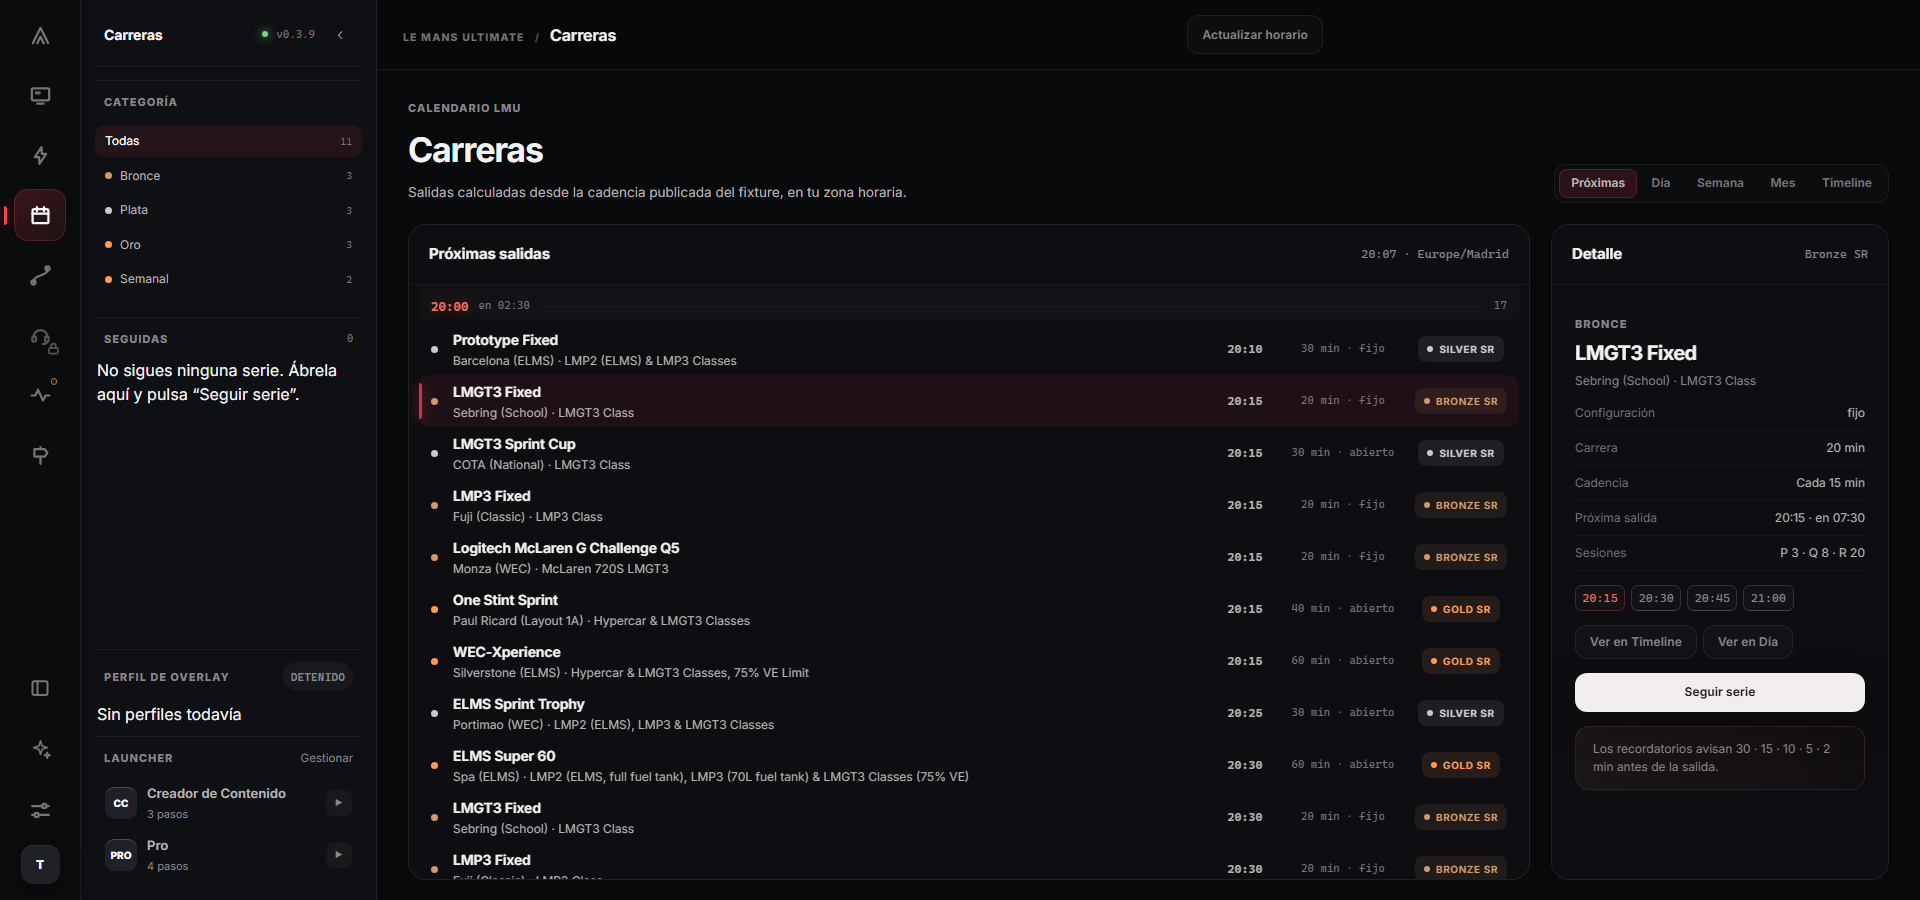
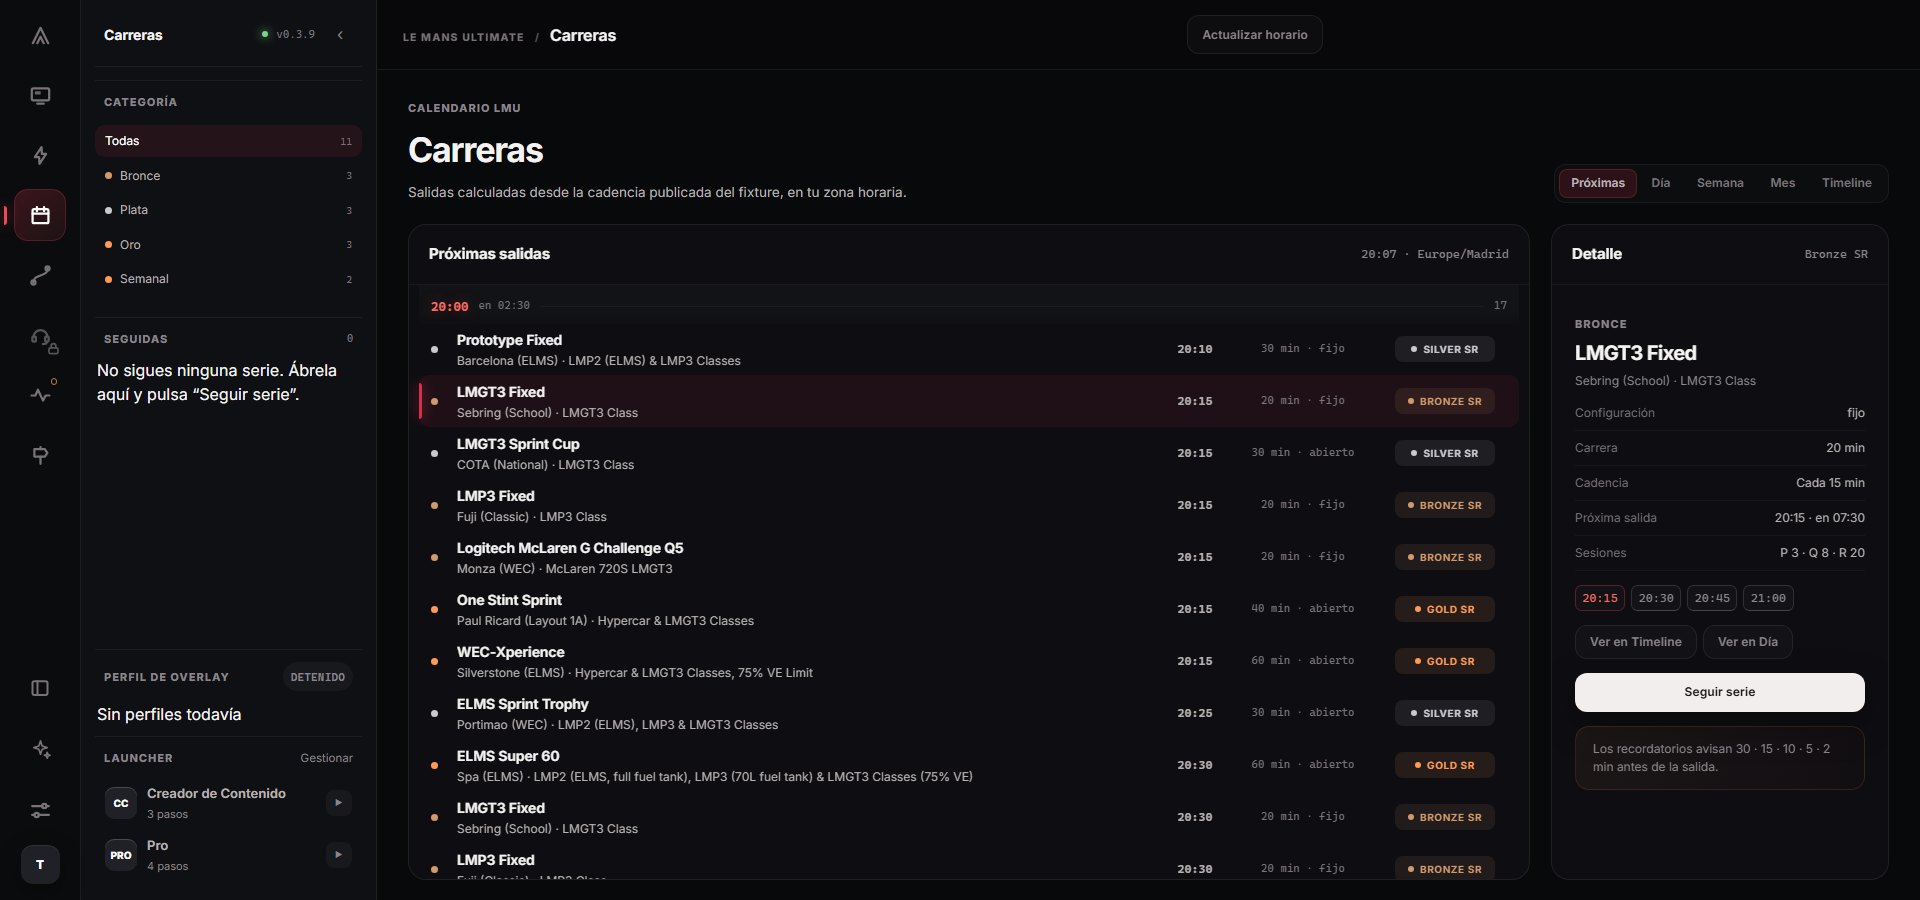
fix(calendar): give upcoming columns more room

diff --git a/vantare-v2/frontend/src/styles/orbit-races.css b/vantare-v2/frontend/src/styles/orbit-races.css
@@ -172,8 +172,8 @@
   display: grid;
   /* Las columnas de datos comparten tracks estables entre filas. Con `auto`,
      cada combinación 20/30/60 min + Bronze/Silver/Gold desplazaba la hora. */
-  grid-template-columns: 10px minmax(0, 1fr) 3.25rem 7.5rem 5.75rem;
-  gap: 12px;
+  grid-template-columns: 10px minmax(0, 1fr) 3.5rem 8rem 7.75rem;
+  column-gap: 1rem;
   align-items: center;
   height: 52px;
   padding: 0 12px;
@@ -256,6 +256,10 @@
 
 .orbit-races__nrow > .orbit-chip {
   justify-self: center;
+  justify-content: center;
+  /* Fondo uniforme y aire propio dentro del track de licencia: así los chips
+     alinean también por sus bordes sin pegarse a duración. */
+  width: 6.25rem;
 }
 
 .orbit-races__follow-mark {

diff --git a/vantare-v2/docs/vantare-program/handoffs/platform-commercial.md b/vantare-v2/docs/vantare-program/handoffs/platform-commercial.md
@@ -14,8 +14,14 @@
   typecheck, build, lint focal y design-system PASS. El harness visual pasa en
   1920 × 1080 y 1920 × 900 con gates de ejes compartidos y cero desbordamiento
   de fila; la inspección colaborativa adicional pasa a 768 × 700.
-- Implementación en `a99c3f46`, pusheada. PR draft #846 hacia `nightly`; no hay
-  merge, promoción, release ni publicación y el cambio sigue aislado.
+- Segunda pasada tras feedback de Isaac: los chips comparten ancho y el track
+  de licencia gana aire propio. En 640/768 × 700, el mínimo visible entre
+  duración y licencia sube de 18,5 a 26,31 px; centros y anchos no varían entre
+  filas y `overflowX` continúa en cero. El harness impide volver a menos de
+  32 px sin escalar, variar el ancho del chip o desalinear un eje.
+- Implementación inicial en `a99c3f46`; segunda pasada incluida en el HEAD de
+  la PR draft #846 hacia `nightly`. No hay merge, promoción, release ni
+  publicación y el cambio sigue aislado.
 
 ## Decisión comercial vigente — ISA-315
 
